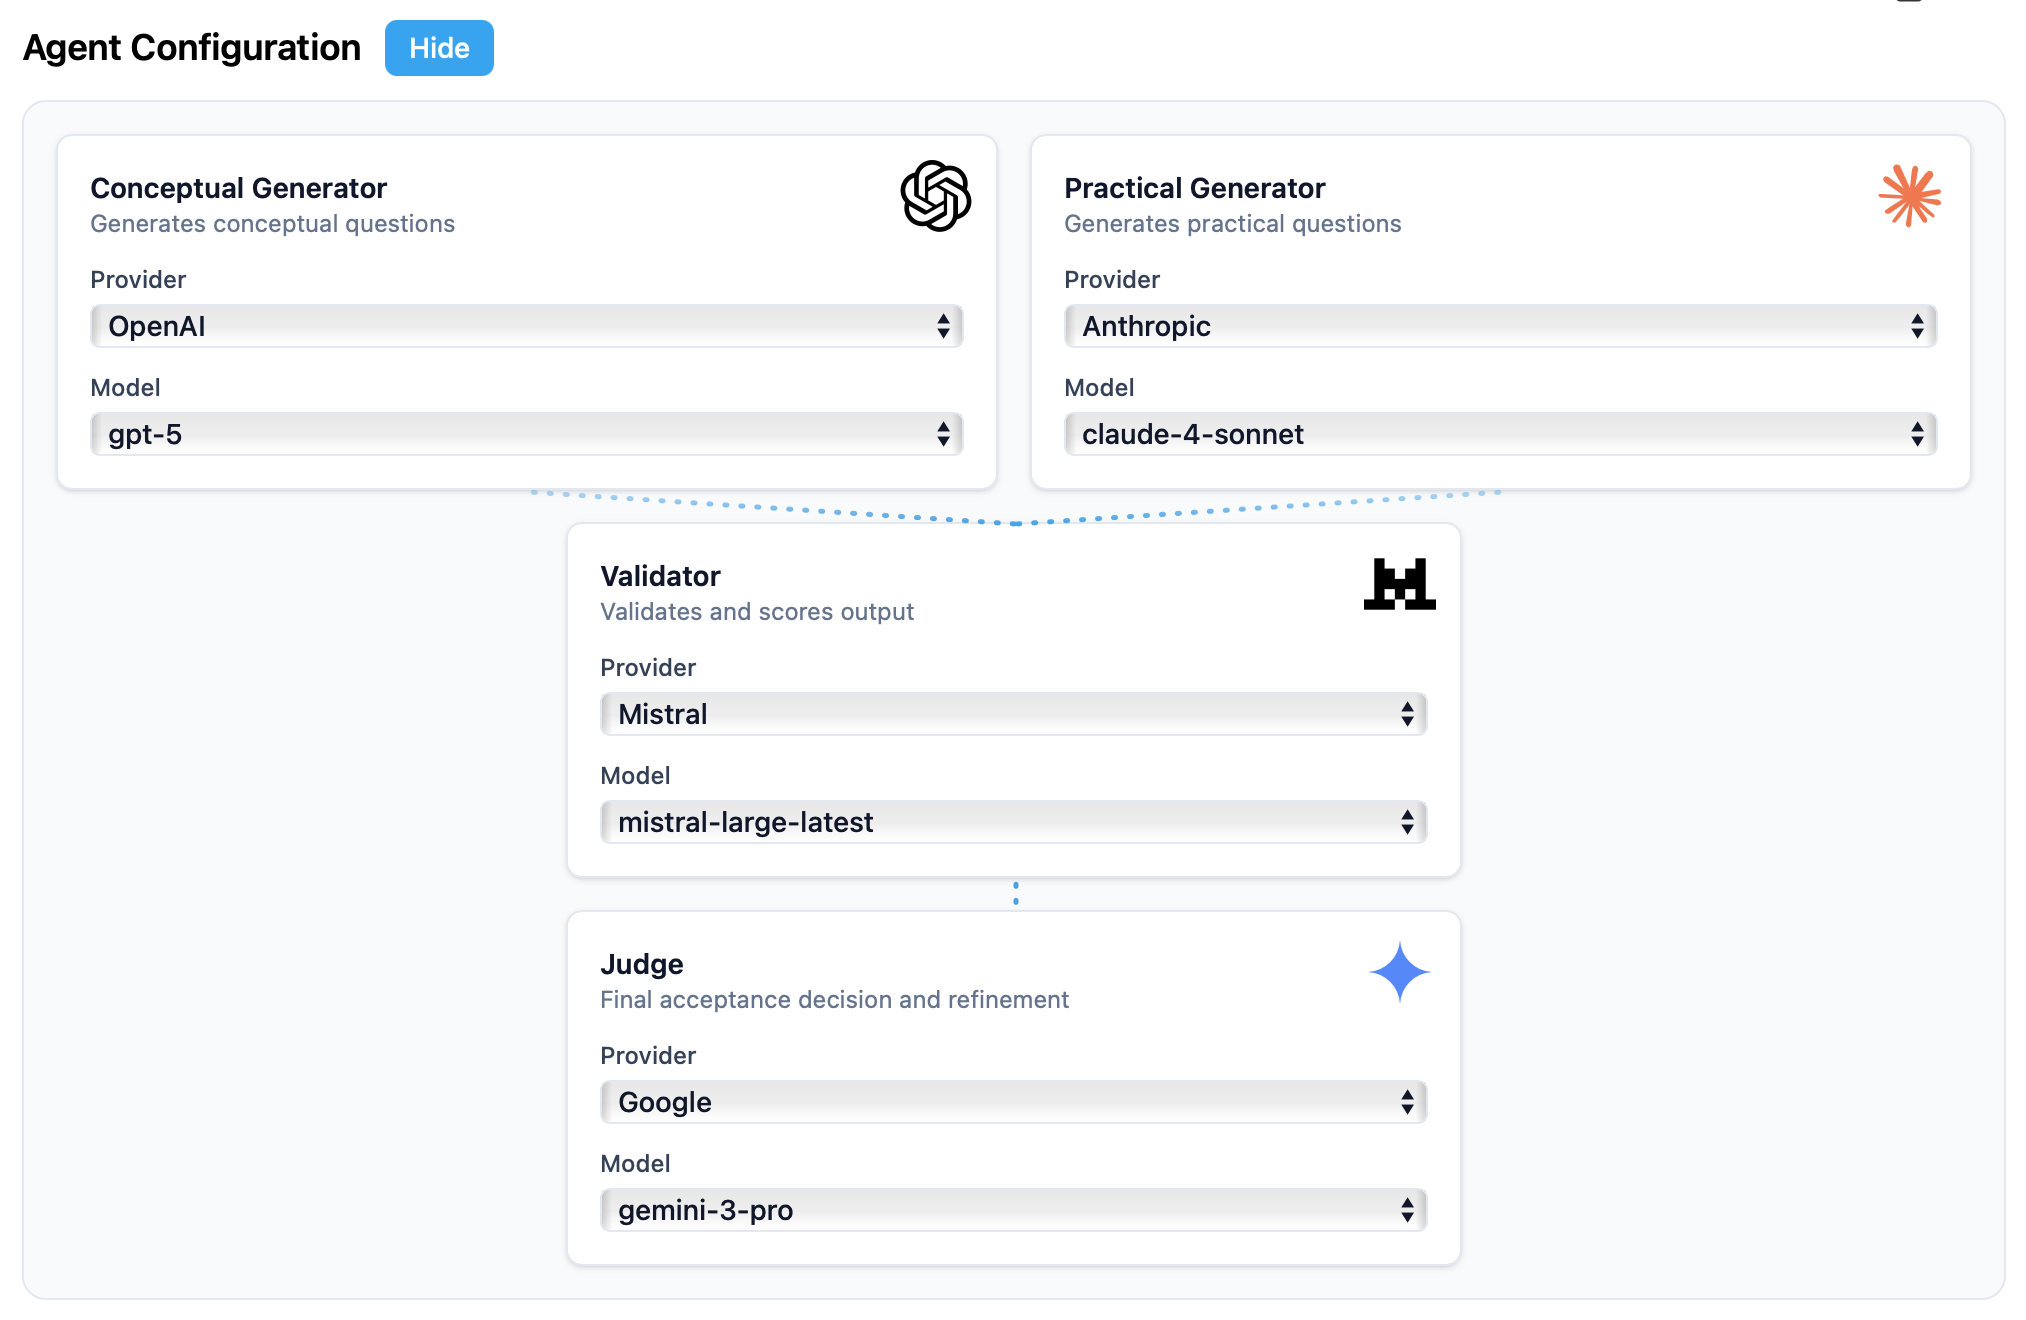
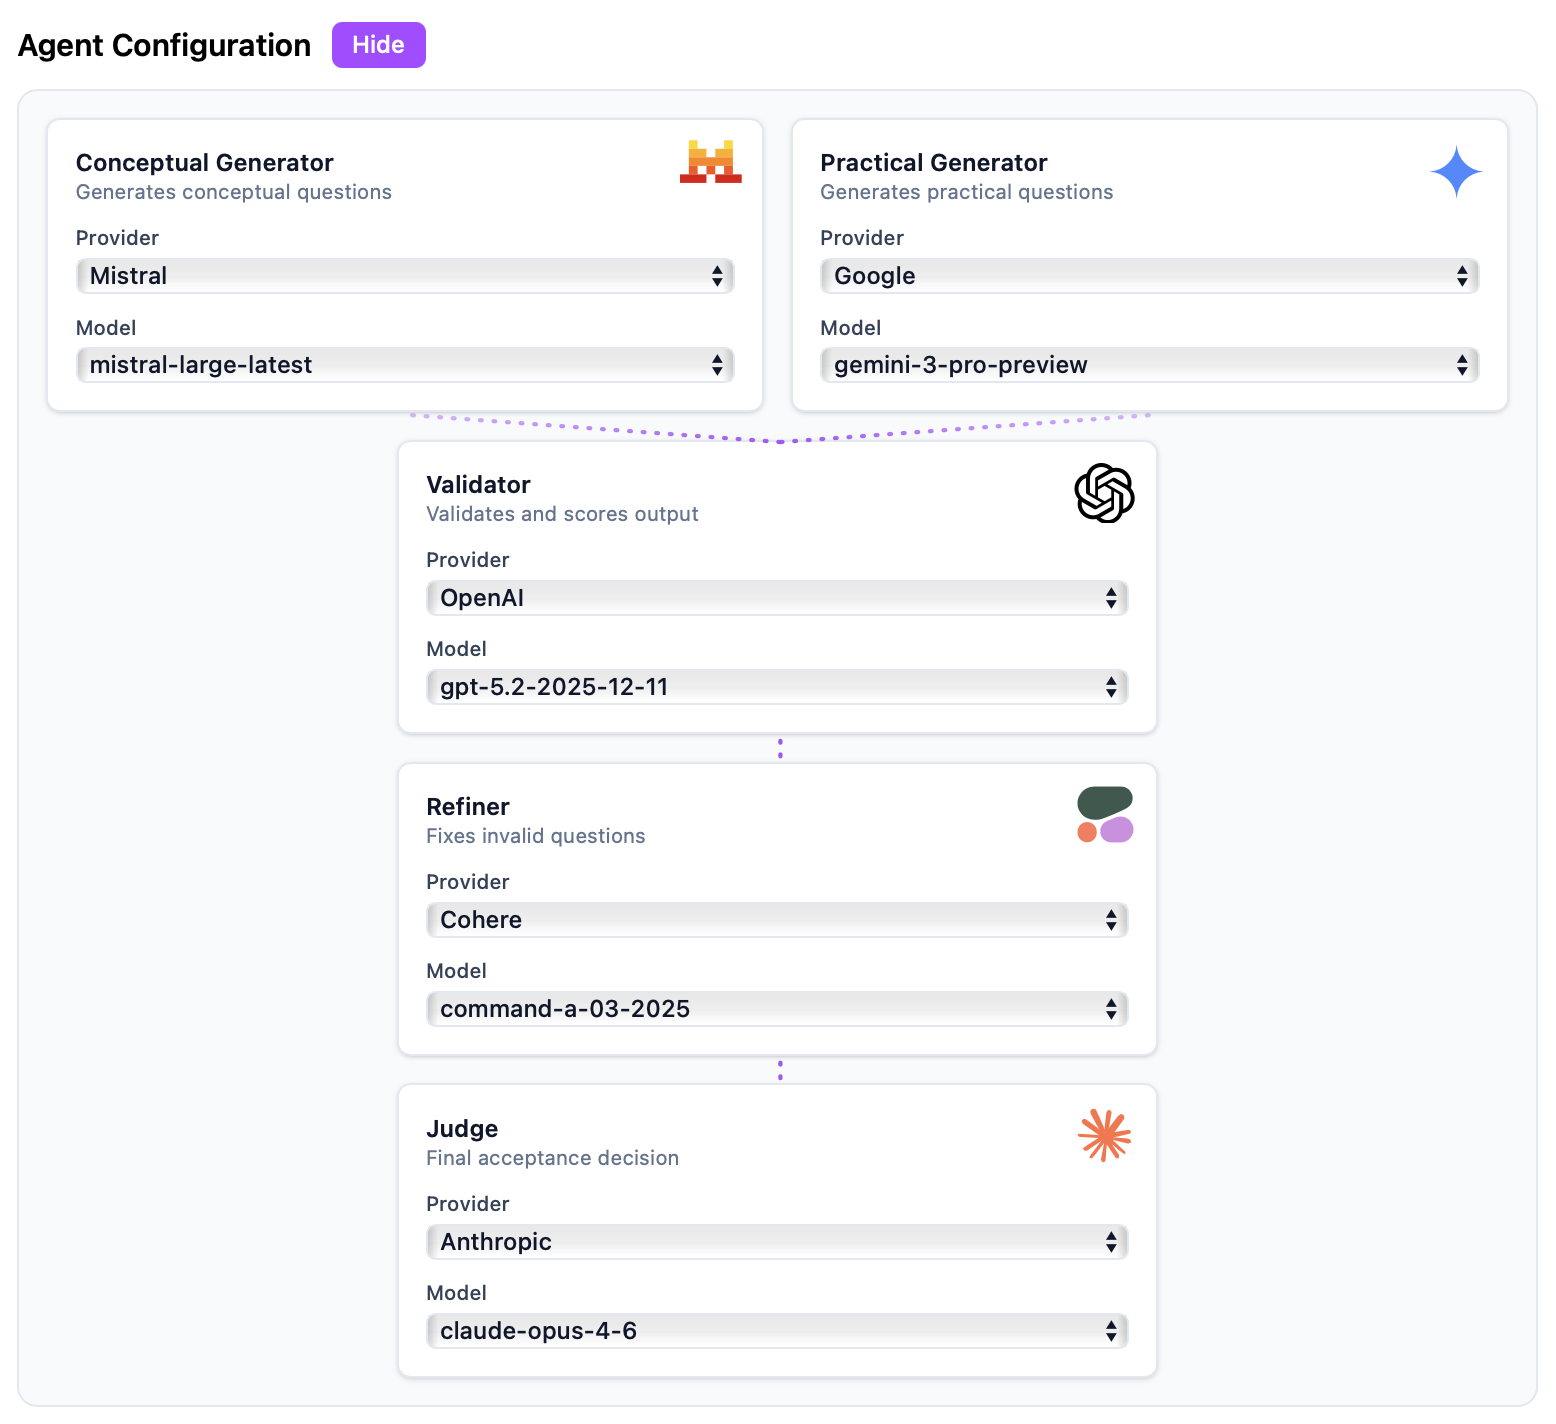
docs: Update docs and examples

diff --git a/examples/quiz_gen_multi_model.py b/examples/quiz_gen_multi_model.py
@@ -314,22 +314,23 @@ def main():
                     "conceptual_qa": result.get("conceptual_qa"),
                     "practical_qa": result.get("practical_qa"),
                 },
-                "step_2_validation": {
-                    "all_valid": result.get("all_valid", False),
-                    "validation_results": result.get("validation_results", []),
+                "step_2_initial_validation": {
+                    "validation_results": result.get("initial_validation_results", []),
                 },
                 "step_3_refinement": {
                     "refined_conceptual_qa": result.get("refined_conceptual_qa"),
                     "refined_practical_qa": result.get("refined_practical_qa"),
                 },
-                "step_4_judge": {
+                "step_4_revalidation": {
+                    "validation_results": result.get("validation_results", []),
+                    "all_valid": result.get("all_valid", False),
+                },
+                "step_5_judge": {
                     "decision": result.get("judge_decision"),
                     "reasoning": result.get("judge_reasoning"),
+                    "final_questions": result.get("final_questions", []),
                 },
-                "step_5_final": {
-                    "questions": result.get("final_questions", []),
-                    "errors": result.get("errors", []),
-                },
+                "errors": result.get("errors", []),
                 "chunk": result["chunk"],
             },
             f,
@@ -342,11 +343,11 @@ def main():
     print("=" * 70)
     print(f"Output file: {output_file}")
     print("All intermediate results from 5 workflow steps included:")
-    print("  • Step 1: Generation (original questions)")
-    print("  • Step 2: Validation (full validator output)")
-    print("  • Step 3: Refinement (if needed)")
-    print("  • Step 4: Judge (decision & reasoning)")
-    print("  • Step 5: Final (accepted questions)")
+    print("  • Step 1: Generation (original questions from generators)")
+    print("  • Step 2: Initial Validation (of original questions)")
+    print("  • Step 3: Refinement (refined questions with notes)")
+    print("  • Step 4: Re-validation (validation after refinement)")
+    print("  • Step 5: Judge (decision, reasoning & final questions)")
     print()
 
 

diff --git a/README.md b/README.md
@@ -9,14 +9,13 @@
 [![Downloads](https://pepy.tech/badge/quiz-gen)](https://pepy.tech/project/quiz-gen)
 
 
-AI-powered quiz generator for regulatory, certification, and educational documentation. Extract structured content from complex legal and technical documents to create comprehensive learning materials.
+AI-powered quiz generator for regulatory documentation. Extract structured content from complex legal and technical documents to create comprehensive teaching and certification materials.
 
 ## Features
 
-- **Multi-Agent Quiz Generation**: Generate, validate, and judge questions using configurable providers/models
+- **Multi-Agent Quiz Generation**: Generate, validate, refine, and judge questions using configurable providers/models.
 - **EUR-Lex Document Parser**: Parse and structure EU legal documents with full table of contents extraction
-- **Hierarchical Document Analysis**: Identify structure including chapters, sections, articles, recitals, annexes, and appendices
-- **Intelligent Chunking**: Extract meaningful content chunks for articles, recitals, annexes, and appendices
+- **Human-in-the-Loop**: Integrate human input throughout the workflow.
 
 ## Installation
 
@@ -79,10 +78,10 @@ parser.print_toc()
 
 ### Multi-Agent Quiz Generation
 
-Quiz generation uses four specialized agents (conceptual, practical, validator, judge). Providers are configurable per agent, with supported providers: **Anthropic**, **Google**, **Mistral**, and **OpenAI**. Any text-generation model name from these providers can be passed directly. The package relies on provider defaults for generation parameters.
+Quiz generation uses four specialized agents (conceptual, practical, validator, refiner, and judge). Providers are configurable per agent, with supported providers: **Anthropic**, **Cohere**, **Google**, **Mistral**, and **OpenAI**. Any text-generation model name from these providers can be passed directly. The package relies on provider defaults for generation parameters.
 
 <div align="center" style="width: 100%;">
-    <img src="docs/images/Screenshot_AgentConfig.png" alt="Multi-Agent Architecture and Configuration" style="width: 100%; height: auto;" />
+    <img src="https://raw.githubusercontent.com/yauheniya-ai/quiz-gen/main/docs/images/Screenshot_AgentConfig.png" alt="Multi-Agent Architecture and Configuration" style="width: 100%; height: auto;" />
     <p><em>Multi-Agent Architecture and Configuration</em></p>
 </div>
 
@@ -91,69 +90,20 @@ from quiz_gen.agents.workflow import QuizGenerationWorkflow
 from quiz_gen.agents.config import AgentConfig
 
 config = AgentConfig(
-    conceptual_provider="openai",
-    practical_provider="anthropic",
-    validator_provider="google",
+    conceptual_provider="cohere",
+    conceptual_model="command-a-03-2025",
+    practical_provider="google",
+    practical_model="gemini-3-pro-preview",
+    validator_provider="openai",
+    validator_model="gpt-5.2-2025-12-11",
+    refiner_provider="anthropic",
+    refiner_model="claude-sonnet-4-5-20250929",
     judge_provider="mistral",
-    conceptual_model="gpt-4o",
-    practical_model="claude-sonnet-4-20250514",
-    validator_model="gemini-2.5-flash",
     judge_model="mistral-large-latest",
 )
 
 workflow = QuizGenerationWorkflow(config)
 result = workflow.run(chunk)
-```
-
-## Advanced Usage
-
-### Custom Parsing Workflows
-
-```python
-from quiz_gen import EURLexParser
-
-parser = EURLexParser(url=document_url)
-
-# Parse specific sections
-parser._parse_preamble()  # Extract citations and recitals
-parser._parse_enacting_terms()  # Extract chapters and articles
-parser._parse_annexes()  # Extract annexes
-
-# Access intermediate results
-toc = parser.toc  # Full table of contents
-chunks = parser.chunks  # Content chunks only
-```
-
-### Filtering Chunks by Type
-
-```python
-from quiz_gen import SectionType
-
-# Get only recitals
-recitals = [c for c in chunks if c.section_type == SectionType.RECITAL]
-
-# Get only articles
-articles = [c for c in chunks if c.section_type == SectionType.ARTICLE]
-
-# Filter by chapter
-chapter_1_articles = [
-    c for c in articles 
-    if 'CHAPTER I' in ' > '.join(c.hierarchy_path)
-]
-```
-
-### Accessing Metadata
-
-```python
-for chunk in chunks:
-    # Access structured metadata
-    print(chunk.metadata)  # {'id': 'art_1', 'subtitle': '...'}
-    
-    # Navigate hierarchy
-    print(chunk.hierarchy_path)  # ['CHAPTER I - PRINCIPLES', 'Article 1']
-    
-    # Identify parent sections
-    print(chunk.parent_section)
 ```
 
 ## Development
@@ -192,6 +142,8 @@ quiz-gen/
 │   ├── eur_lex_html_url.py
 │   └── quiz_gen_multi_model.py
 ├── pyproject.toml
+├── README.md
+├── CHANGELOG.md
 └── .env
 ```
 
@@ -239,14 +191,8 @@ Enumeration of document section types.
 ### Compliance and Legal
 
 - Analyze regulatory requirements systematically
-- Track changes across document versions
-- Build searchable knowledge bases from legal texts
-
-### Documentation Processing
-
-- Convert unstructured documents into structured data
-- Build citation networks and cross-references
 - Support automated document analysis workflows
+- Build searchable knowledge bases from legal texts
 
 ### Education and Training
 
@@ -259,7 +205,6 @@ Enumeration of document section types.
 Currently supports:
 
 - **EUR-Lex HTML Documents**: European Union regulations, directives, decisions
-- **Legislative Acts**: Structured legal documents with formal hierarchies
 
 ### Document Format Requirements
 
